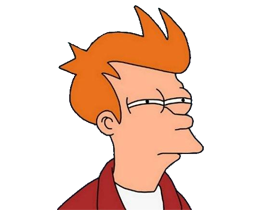
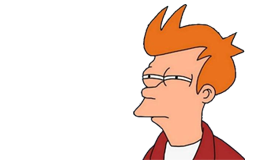
Resized and added new images.

diff --git a/Index.html b/Index.html
@@ -123,7 +123,7 @@
         <div class="accept-sel-panel">
         <ul data-bind="foreach: { data: mainSelenium }">
             <!-- ko if: status() == "FAILURE"-->
-                <li data-bind="attr: { class: 'failure' + ' ' + randomFail() }">
+                <li data-bind="attr: { class: randomFail() + ' ' + 'sel-failclass' }">
                     <div class="build-branch-main"  data-bind="text: description()"></div>
                     <div class="build-type-main" data-bind="text: status()"></div>
                     <div class="clear"></div>
@@ -147,7 +147,7 @@
         <div class="accept-sel-panel-history">
 		<ul data-bind="foreach: { data: mostRecentSelenium }">
 		  <!-- ko if: status() == "FAILURE"-->
-                <li data-bind="attr: { class: 'failure' + ' ' + randomFail() }">
+                <li class="sel-failclass">
                     <div class="build-branch"  data-bind="text: description()"></div>
                     <div class="build-type" data-bind="text: buildType"></div>
                     <div class="clear"></div>
@@ -159,7 +159,7 @@
                 </li>
 				<!-- /ko -->
 				<!-- ko if: status() == "SUCCESS"-->
-                <li data-bind="attr: { class: 'success' + ' ' + randomSuccess() }">
+                <li class="success">
                     <div class="build-branch"  data-bind="text: description()"></div>
                     <div class="build-type" data-bind="text: buildType"></div>
                     <div class="clear"></div>
@@ -183,6 +183,7 @@
         <div class="dev-panel">
         <ul data-bind="foreach: { data: mainDevs }">
                      <!-- ko if: status() == "FAILURE"-->
+                <li data-bind="attr: { class: 'failure' + ' ' + randomFail() }">
                 <li class = "failure">
                     <div class="build-branch-main"  data-bind="text: description()"></div>
                     <div class="build-type-main" data-bind="text: status()"></div>
@@ -195,7 +196,7 @@
                 <!-- ko if: status() == "SUCCESS"-->
                 <li data-bind="attr: { class: 'success' + ' ' + randomSuccess() }">
                     <div class="build-branch-main"  data-bind="text: description()"></div>
-                    <div class="build-type-main" data-bind="text: isRunning() ? '' : status"></div>
+                    <div class="build-type-main" data-bind="text: status()"></div>
                     <div class="clear"></div>
                     <!-- ko if: hasProgress() -->
                        <div class="progress-container" data-bind="attr: { 'data-progress' : percentageComplete() }"></div>

diff --git a/Content/Style.css b/Content/Style.css
@@ -308,13 +308,13 @@ ul {
     }
 
     .c10 {
-        background-image: url('./images/happy10.png');
+        background-image: url('./images/happy11.png');
         background-position: bottom right;
         background-repeat: no-repeat;
     }
 
     .d10 {
-        background-image: url('./images/angry11.gif');
+        background-image: url('./images/angry11.png');
         background-position: bottom right;
         background-repeat: no-repeat;
     }

diff --git a/Script/Utils.js b/Script/Utils.js
@@ -3,6 +3,8 @@
 //----------------------
 var Utils = {
 
+    
+
     //Returns one of 11 random images for the buid success or fail image
     getRandomClass : function() {
         return 'c' + Math.floor(Math.random() * 11);
